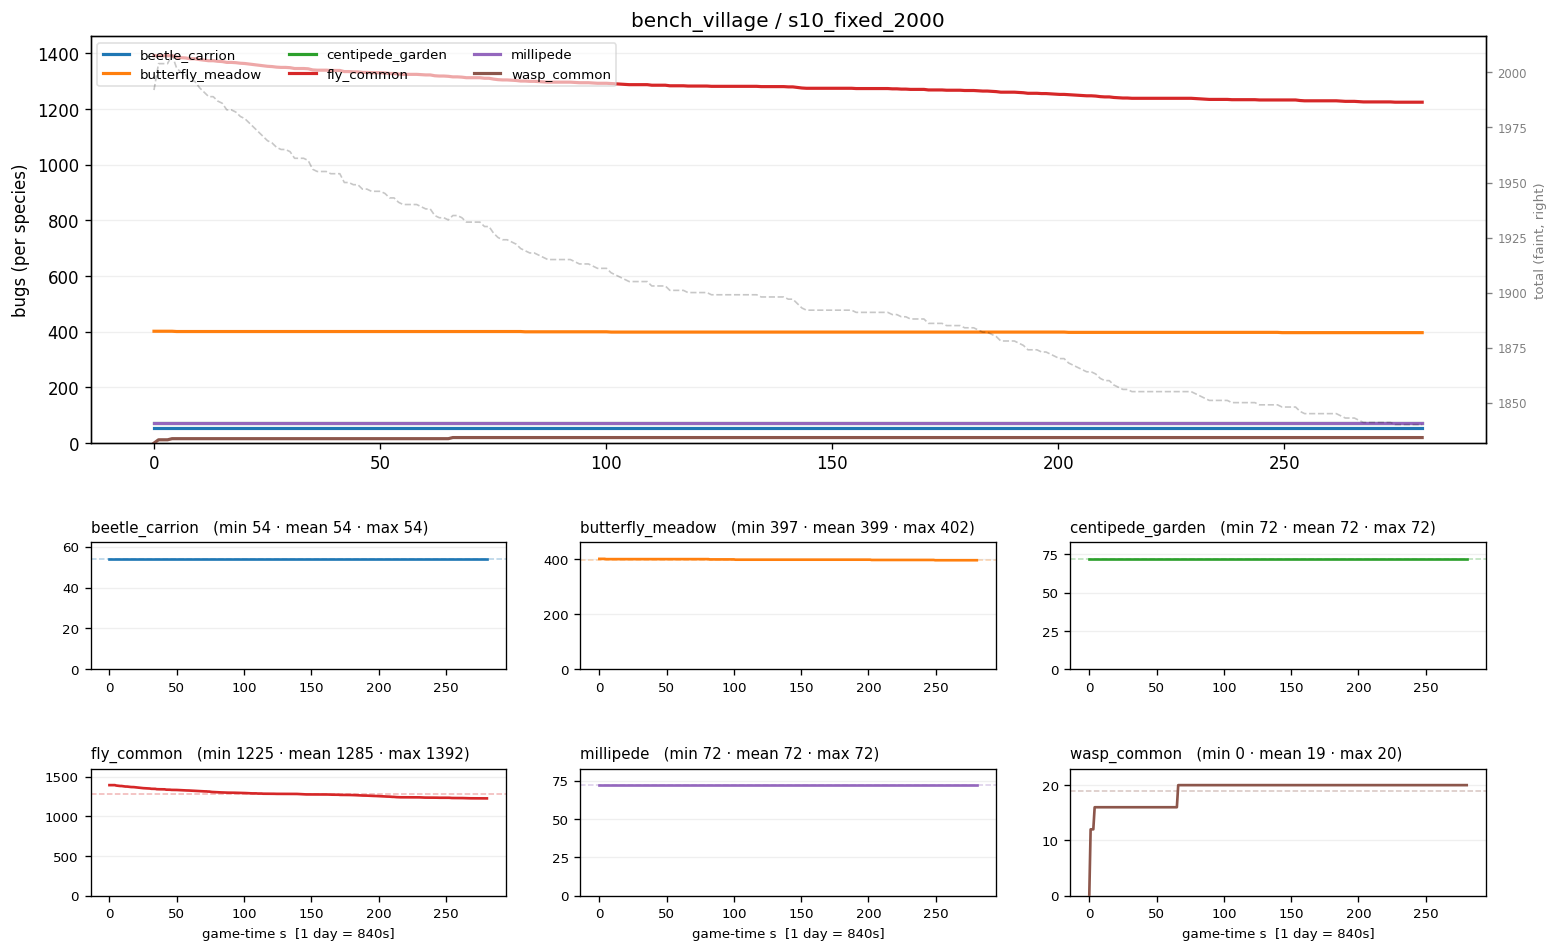
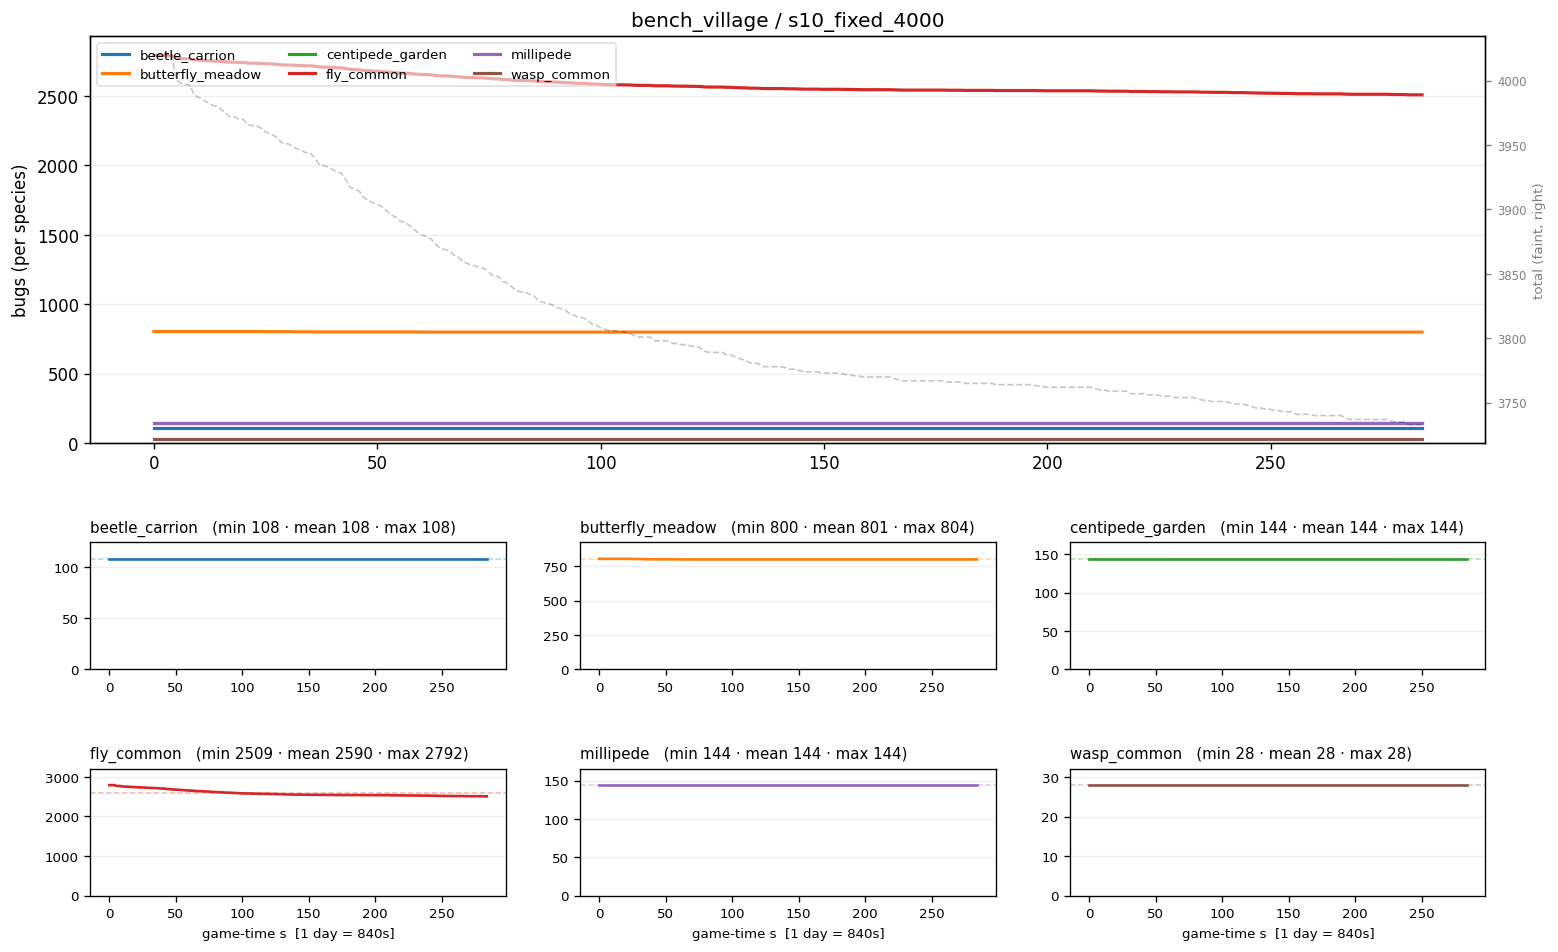
S1.2 follow-up 2: the one-pass change dropped after its timing re-run
The rule passed as written (group tick +1.7 / +1.1 / +0.3% at 1,000 / 2,000 / 4,000 bugs), but the change is not
faster at any count and the bug drawing read slower in every pair (+9.8% at 2,000, +18.4% at 4,000), so the two-pass
code stays as committed. The bench charts are the last timing run's.

diff --git a/tools/_generated/ecology_charts/bench_village/current/index.html b/tools/_generated/ecology_charts/bench_village/current/index.html
@@ -1,11 +1,11 @@
 <!doctype html><meta charset=utf-8><title>bench_village — dashboard</title>
 <style>body{background:#111;color:#ddd;font:14px/1.4 system-ui,sans-serif;margin:0;padding:24px}h1{font-size:20px;margin:0 0 2px}h2{font-size:15px;color:#9cf;margin:28px 0 6px}img{max-width:100%;border:1px solid #333;background:#fff;display:block}.t{color:#888;font-size:12px}a{color:#9cf}</style>
 <h1>bench_village — current charts</h1>
-<div class=t>generated 2026-10-08 13:03:46 — the LATEST run; history in <code>../archive/</code></div>
+<div class=t>generated 2026-10-09 07:53:30 — the LATEST run; history in <code>../archive/</code></div>
 <h2>Performance — CPU by species/phase, throughput vs the 100ms budget, dark (un-measured) time, per-bug, GC</h2>
 <img src='perf.png?v=1791489486'>
 <h2>Population — per-species counts over game-days</h2>
-<img src='population.png?v=1791489825'>
+<img src='population.png?v=1791557610'>
 <h2>Interactions — births by source / deaths by cause / predation matrix</h2>
 <img src='interactions.png?v=1791489486'>
 <h2>Phase portraits — predator-vs-prey trajectories</h2>

diff --git a/docs/plans/village-slice.md b/docs/plans/village-slice.md
@@ -88,7 +88,8 @@ making a four-times-bigger village good to walk around and making tuning runs fa
 - **Now (2026-10-07):** Stage 1.0 is done — the equivalence check and the two-step behaviour check are proven, the
   "before" numbers are measured and written up (`docs/product/investigations/stage1-before-2026-10-06/README.md`), and
   the three late-join faults the player tests found are fixed and proven.
-- **Next (2026-10-09):** the short structural check on today's village (after the one-pass timing re-run), then Stage 1.5
+- **Next (2026-10-09):** the one-pass change is dropped (its timing re-run found no gain and slower drawing, PROGRESS);
+  the short structural check on today's village, then Stage 1.5
   with the 512 test zone (today's village tiled 2 × 2, about 1,000 bugs) for the owner to walk; then the faster test
   runs (1.6), then tuning in bands (the owner's order, 2026-10-09). Superseded below:
 - **Earlier (2026-10-08, paused while the owner uses Unity):** with the machine free — the Unity build and Stage 1.3's
@@ -266,6 +267,12 @@ making a four-times-bigger village good to walk around and making tuning runs fa
   `SyncTest_onepass`, against the now-deployed Stage 1.3 server — both face the same server), at each count the order
   old, new, new, old (mirrored, so a slow patch falls on both), each part judged on the mean of the two runs per build;
   the same pass rule.
+  **The re-run's result (2026-10-09, 06:53–07:53, quiet machine):** the rule passes as written — the group tick
+  +1.7% / +1.1% / +0.3% at 1,000 / 2,000 / 4,000 bugs (the parts it doesn't touch moved 0–4%, so the machine was
+  quiet) — but the change is **dropped, not committed**: it was meant to make the tick faster and is not faster at any
+  count, and the bug drawing (`Render.Interpolate`, which the rule didn't judge) read slower in every pair, +9.8% at
+  2,000 and +18.4% at 4,000 (both new runs above both old ones each time). No gain and a cost: the two-pass code stays
+  as committed. Data: `tools/_generated/scaling/2026-10-09-onepass/summary.json`.
 - **The late-join fixes (2026-10-07, the owner's yes):** the three causes fixed as proposed, plus the drift-check
   resync, which sent no collision map at all — every package now sends its own map as of its snapshot, from one place,
   and the client re-arms the map wait on each package. Six Go tests; every gate passed (Go, seven sim-determinism
